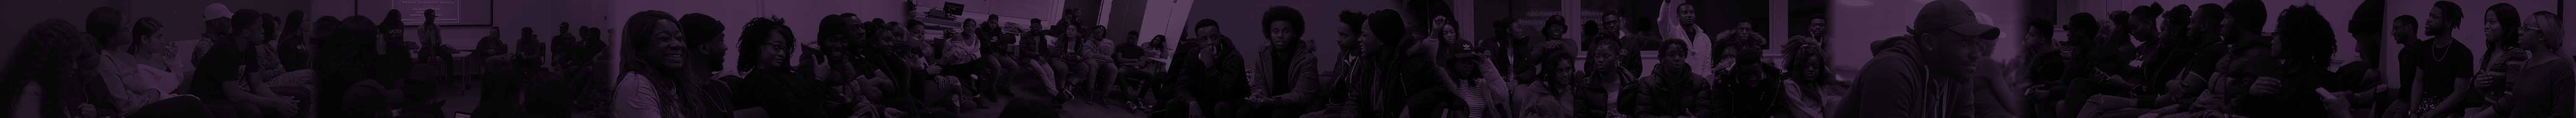
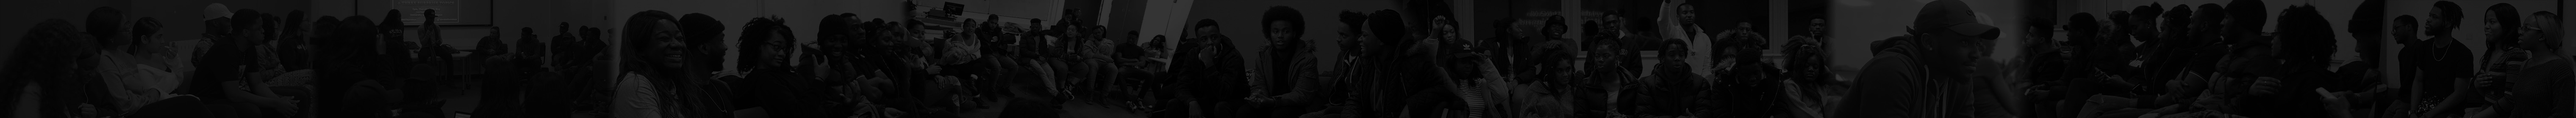
Nav image

diff --git a/styles/sessions.scss b/styles/sessions.scss
@@ -26,20 +26,8 @@
       justify-content: center;
       padding: 0.8em 0.5em;
       text-align: center;
-      .title {
-        font-size: 1.1vw;
-        @media (max-width: $break-xl) { font-size: 1.3vw; }
-        @media (max-width: $break-lg) { font-size: 1.8vw; }
-        @media (max-width: $break-md) { font-size: 2.5vw; }
-        @media (max-width: $break-sm) { font-size: 3.5vw; }
-      }
-      .date {
-        font-size: 0.9vw;
-        @media (max-width: $break-xl) { font-size: 1vw; }
-        @media (max-width: $break-lg) { font-size: 1.2vw; }
-        @media (max-width: $break-md) { font-size: 1.9vw; }
-        @media (max-width: $break-sm) { font-size: 2.2vw; }
-      }
+      .title { font-size: .9em; }
+      .date { font-size: .8em; }
     }
   }
 }
@@ -55,24 +43,10 @@
     .image { width: 100%; }
     .details {
       padding: 1em;
-      .title {
-        font-size: 1.5em;
-        @media (max-width: $break-lg) { font-size: 1.8vw; }
-        @media (max-width: $break-md) { font-size: 2.5vw; }
-        @media (max-width: $break-sm) { font-size: 3.5vw; }
-      }
-      .date {
-        font-size: 0.9vw;
-        @media (max-width: $break-lg) { font-size: 1.5vw; }
-        @media (max-width: $break-md) { font-size: 1.9vw; }
-        @media (max-width: $break-sm) { font-size: 2.2vw; }
-      }
-      .description {
-        font-size: 1.1vw;
-        @media (max-width: $break-lg) { font-size: 1.8vw; }
-        @media (max-width: $break-md) { font-size: 1.8vw; }
-        @media (max-width: $break-sm) { font-size: 2.1vw; }
-      }
+      @media (max-width: $break-md) { padding: 1em 0; }
+      .title { font-size: 1.5em; }
+      .date { font-size: .9em; }
+      .description { font-size: 1em; }
     }
   }
 }

diff --git a/pages/sessions/index.js b/pages/sessions/index.js
@@ -184,13 +184,13 @@ class Session extends PureComponent {
       return (
         <Link href={`/session/${item.slug}`}>
           <Row className={css.item}>
-            <Col xs={4} className={'p-0'}>
+            <Col md={4} className={'p-0'}>
               <img
                 src={`/static/images/sessions/${item.image}`}
                 alt={item.title}
                 className={css.image} />
             </Col>
-            <Col xs={8}>
+            <Col md={8}>
               <div className={css.details}>
                 <Title className={css.title}>{item.title}</Title>
                 <Subtitle className={css.date}>{formatDate(item.dateHeld, true)}</Subtitle>

diff --git a/styles/blackex.scss b/styles/blackex.scss
@@ -28,13 +28,7 @@
       justify-content: center;
       padding: 0.8em 0.5em;
       text-align: center;
-      .title {
-        font-size: 1.1vw;
-        @media (max-width: $break-xl) { font-size: 1.3vw; }
-        @media (max-width: $break-lg) { font-size: 1.8vw; }
-        @media (max-width: $break-md) { font-size: 2.5vw; }
-        @media (max-width: $break-sm) { font-size: 3.5vw; }
-      }
+      .title { font-size: .9em; }
     }
   }
 }

diff --git a/components/cover.js b/components/cover.js
@@ -1,7 +1,6 @@
 import React, { Component } from 'react';
 import {Container} from 'react-bootstrap';
-import classNames from 'classnames';
-import { fonts } from '~/constants/theme.js';
+import classNames from 'classnames';;
 import css from '~/styles/_components.scss';
 
 export default class Cover extends Component {

diff --git a/styles/_partials.scss b/styles/_partials.scss
@@ -47,7 +47,9 @@
 }
 
 .nav {
-  background-color: $dark;
+  background-image: url('/static/images/bg/nav-bg.jpg');
+  background-size: cover;
+  // background-color: $dark;
   height: $navbar-height;
   @media (max-width: $break-md) { height: initial; }
   .links {

diff --git a/styles/login.scss b/styles/login.scss
@@ -4,6 +4,10 @@
   margin-bottom: 1em !important;
 }
 
+:global(.modal-dialog) {
+  max-width: 500px !important;
+}
+
 .modal_header, .modal_body, .modal_footer { background: $dark; }
 .modal_footer {
   flex-direction: column;
